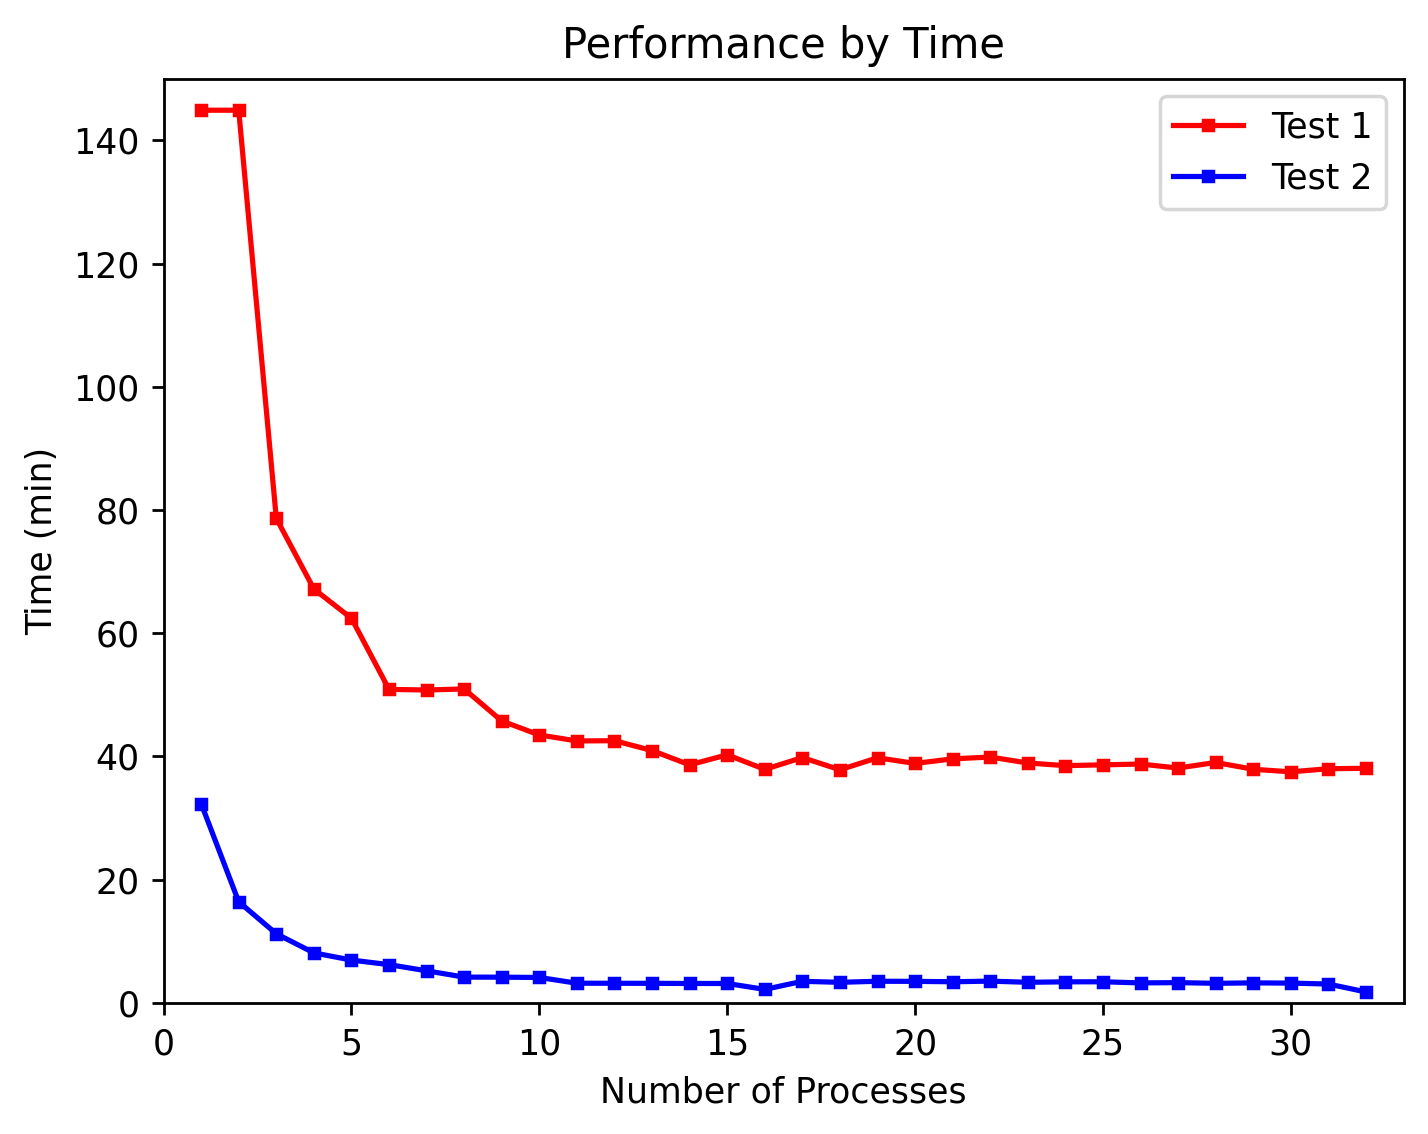
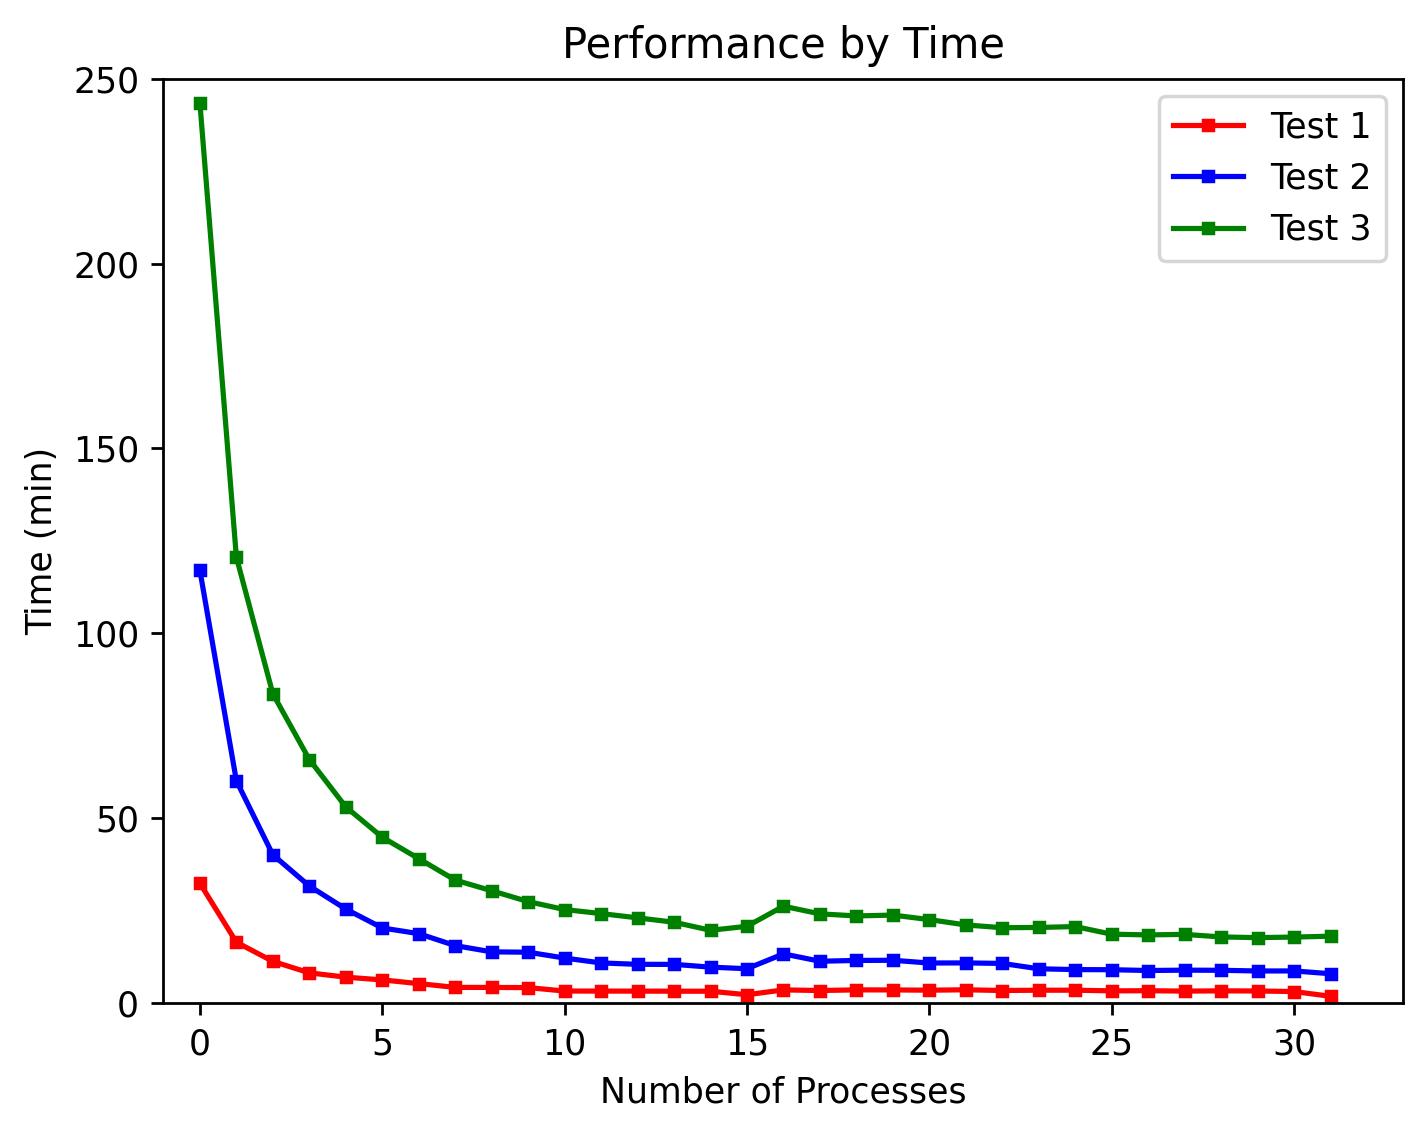
plots

diff --git a/scripts/python/processes_plot.py b/scripts/python/processes_plot.py
@@ -1,13 +1,20 @@
 import matplotlib.pyplot as plt
 import pandas as pd
 
-data1 = pd.read_csv('/home/khayes/summer2024/athena/processes_test/processes_data1.txt', sep='\t', header=None)
-data2 = open('/data/khyaes/processes_test/test2/data/all_data.txt', 'r')
+#data1 = pd.read_csv('/home/khayes/summer2024/athena/processes_test/processes_data1.txt', sep='\t', header=None)
+data3 = open('/data/khyaes/processes_test/test4/data/all_data.txt', 'r')
+data1 = open('/data/khyaes/processes_test/test2/data/all_data.txt', 'r')
+data2 = open('/data/khyaes/processes_test/test3/data/all_data.txt', 'r')
 time1 = []
 time2 = []
+time3 = []
 
-for num in data1.iloc[1:, 2]:
-    time1.append(float(num))
+for num in data1:
+    if num != '\n':
+        print(num)
+        num = float(num)
+        minutes = num / 60
+        time1.append(minutes)
 
 for num in data2:
     if num != '\n':
@@ -15,12 +22,19 @@ for num in data2:
         minutes = num / 60
         time2.append(minutes)
 
-plt.plot(range(1, 33), time1, marker='s', color='r', markersize=3)
-plt.plot(range(1, 33), time2, marker='s', color='b', markersize=3)
+for num in data3:
+    if num != '\n':
+        num = float(num)
+        minutes = num / 60
+        time3.append(minutes)
+
+plt.plot(range(len(time1)), time1, marker='s', color='r', markersize=3)
+plt.plot(range(len(time1)), time2, marker='s', color='b', markersize=3)
+plt.plot(range(len(time1)), time3, marker='s', color='g', markersize=3)
 plt.title('Performance by Time')
-plt.xlim(0, 33)
-plt.ylim(0, 150)
-plt.legend(['Test 1', 'Test 2'])
+plt.xlim(-1, 33)
+plt.ylim(0, 250)
+plt.legend(['Test 1', 'Test 2', 'Test 3'])
 plt.xlabel('Number of Processes')
 plt.ylabel('Time (min)')
 plt.savefig('/home/khayes/summer2024/paper/plots/processes_test.png', bbox_inches='tight', dpi=250)

diff --git a/scripts/python/rt_integrators_multiplot.py b/scripts/python/rt_integrators_multiplot.py
@@ -1,0 +1,50 @@
+import matplotlib.pyplot as plt
+from mpl_toolkits.axes_grid1 import AxesGrid
+import yt
+
+integrators = ['rk2', 'rk3', 'rk4', 'vl2', '5_4']
+test_dir = "/data/khyaes/integrator_test/rt"
+
+fig = plt.figure()
+
+grid = AxesGrid(
+    fig,
+    (0.05, 0.07, 6, 2), # Change this to get the dimensions and sizing of the subplots right. It is the padding for (left, bottom, width, height)
+    nrows_ncols=(1, 5),
+    axes_pad= 2, # Padding between the subplots
+    label_mode='L',
+    share_all=True,
+    cbar_location="right",
+    cbar_mode="single",
+    cbar_size="3%",
+    cbar_pad="0%")
+
+variable=('gas', 'temperature')
+
+for i, integrator in enumerate(integrators):
+    ds = yt.load(f'{test_dir}/{integrator}/data/rt.out2.00208.athdf')
+    s = yt.SlicePlot(ds=ds, normal='z', fields=variable)
+    s.set_cmap(variable, 'inferno')
+    if integrator == '5_4':
+        s.annotate_title('SSPRK5_4')
+    else:
+        s.annotate_title(integrator.upper())
+        
+    s.set_zlim(variable, zmax=5.3e-9, zmin=2e-9)
+    s.set_log(variable, False)
+    s.set_colorbar_label(variable, 'Temperature')
+    s.set_minorticks(variable, False)
+    s.set_colorbar_minorticks(variable, True)
+    s.set_font_size(58)
+
+    plot = s.plots[variable]
+    plot.figure = fig
+    plot.axes = grid[i].axes
+    plot.cax = grid.cbar_axes[i]
+
+    # Finally, this actually redraws the plot.
+    s.render()
+
+# 'bbox_inches='tight' here is very important for getting correct dimensions on subplots!!
+plt.savefig("/data/khyaes/integrator_test/rt/rt_integrator_multiplot.png", bbox_inches='tight', dpi=100) 
+
